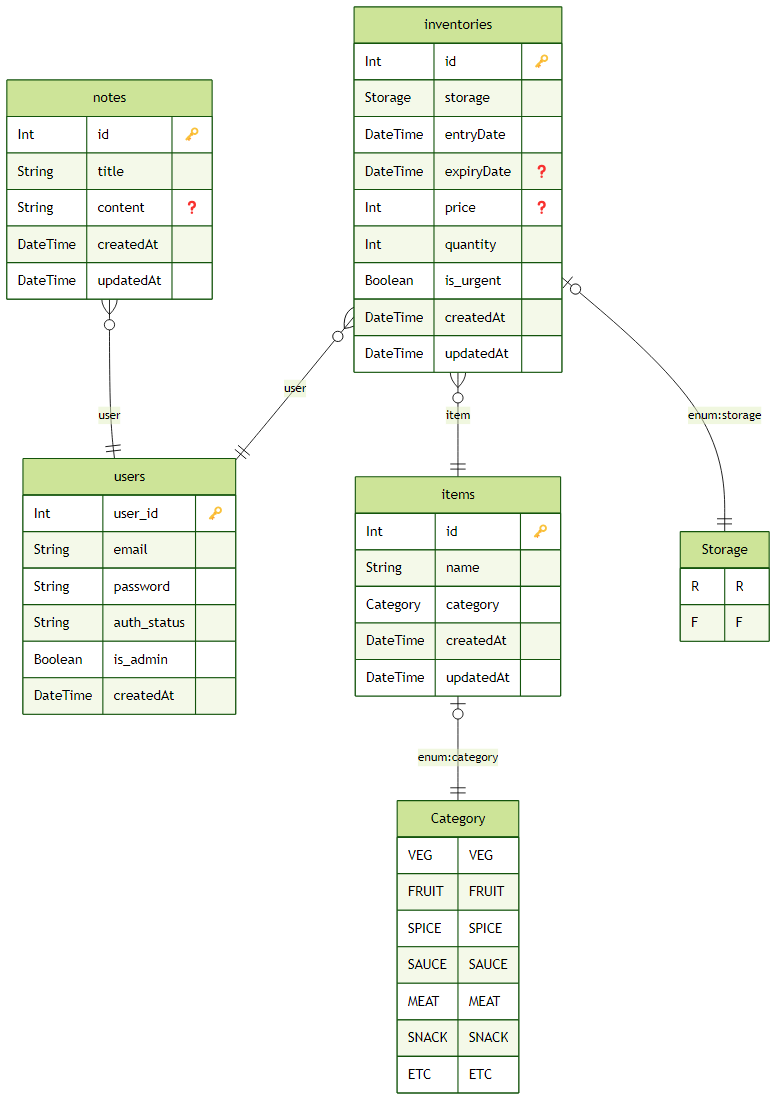
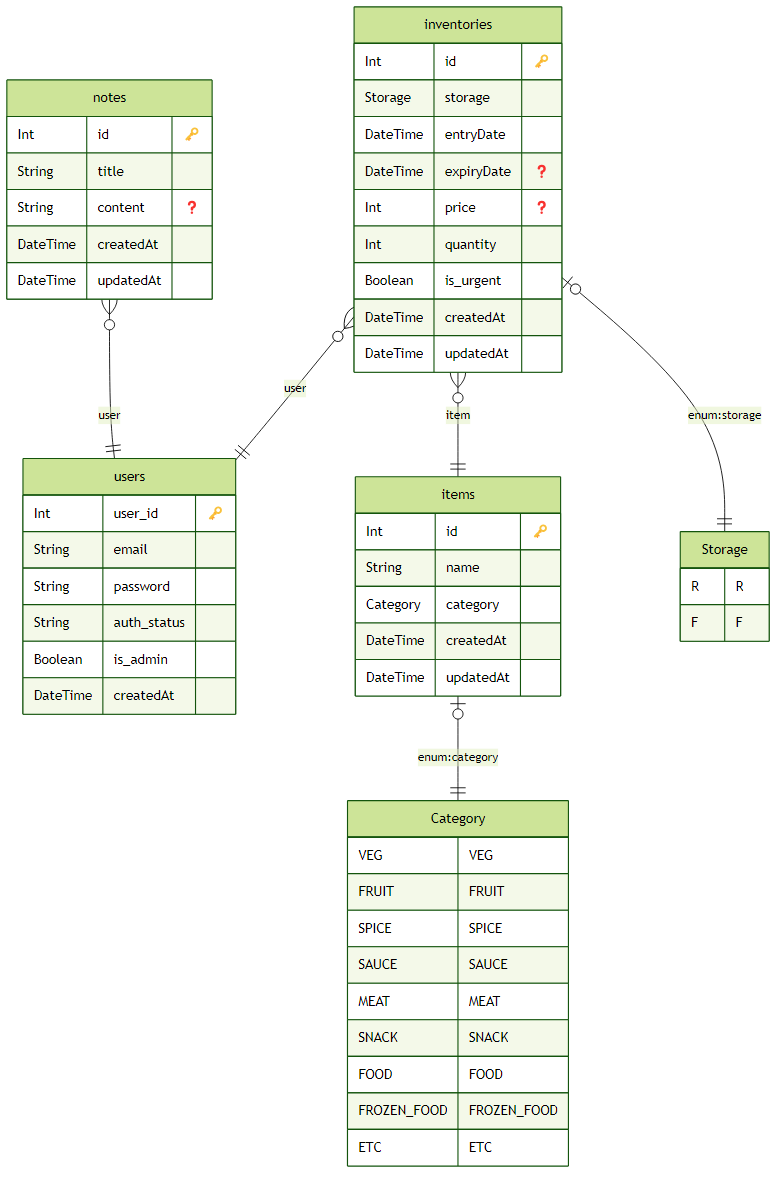
feat(F.E): Add FOOD and FROZEN_FOOD categories to Inventory

diff --git a/frontend/src/components/inventory/InventoryFilters.tsx b/frontend/src/components/inventory/InventoryFilters.tsx
@@ -1,11 +1,13 @@
 export const CATEGORY_INFO: Record<string, { label: string; style: string }> = {
-  VEG:   { label: "🥬 야채",   style: "!bg-green-100 text-green-700" },
-  FRUIT: { label: "🍎 과일",   style: "!bg-pink-100 text-pink-700" },
-  SPICE: { label: "🧂 조미료", style: "!bg-yellow-100 text-yellow-700" },
-  SAUCE: { label: "🥫 양념장", style: "!bg-orange-100 text-orange-700" },
-  MEAT:  { label: "🥩 고기",   style: "!bg-red-100 text-red-700" },
-  SNACK: { label: "🍪 간식",   style: "!bg-purple-100 text-purple-700" },
-  ETC:   { label: "📦 기타",   style: "!bg-gray-100 text-gray-700" },
+  VEG:         { label: "🥬 야채",       style: "!bg-green-100 text-green-700" },
+  FRUIT:       { label: "🍎 과일",       style: "!bg-pink-100 text-pink-700" },
+  SPICE:       { label: "🧂 조미료",     style: "!bg-yellow-100 text-yellow-700" },
+  SAUCE:       { label: "🥫 양념장",     style: "!bg-orange-100 text-orange-700" },
+  MEAT:        { label: "🥩 고기",       style: "!bg-red-100 text-red-700" },
+  SNACK:       { label: "🍪 간식",       style: "!bg-purple-100 text-purple-700" },
+  FOOD:        { label: "🍱 음식",       style: "!bg-amber-100 text-amber-700" },
+  FROZEN_FOOD: { label: "🧊 냉동식품",   style: "!bg-blue-100 text-blue-700" },
+  ETC:         { label: "📦 기타",       style: "!bg-gray-100 text-gray-700" },
 };
 
 export const STORAGE_INFO: Record<string, { label: string; style: string }> = {
@@ -132,6 +134,8 @@ export default function InventoryFilters({
               <option value="SAUCE">양념장</option>
               <option value="MEAT">고기</option>
               <option value="SNACK">간식</option>
+              <option value="FOOD">음식</option>
+              <option value="FROZEN_FOOD">냉동식품</option>
               <option value="ETC">기타</option>
             </select>
             <select className="flex-1 p-2 border rounded" value={storageFilter} onChange={(e) => setStorageFilter(e.target.value)}>

diff --git a/frontend/src/components/inventory/InventoryModal.tsx b/frontend/src/components/inventory/InventoryModal.tsx
@@ -218,6 +218,8 @@ export default function InventoryModal({
                 <option value="SAUCE">🥫 양념장</option>
                 <option value="MEAT">🥩 고기</option>
                 <option value="SNACK">🍪 간식</option>
+                <option value="FOOD">🍱 음식</option>
+                <option value="FROZEN_FOOD">🧊 냉동식품</option>
                 <option value="ETC">📦 기타</option>
               </select>
             </div>

diff --git a/frontend/src/types/item.ts b/frontend/src/types/item.ts
@@ -1,4 +1,4 @@
-export type Category = "VEG" | "FRUIT" | "SPICE" | "SAUCE" | "MEAT" | "SNACK" | "ETC";
+export type Category = "VEG" | "FRUIT" | "SPICE" | "SAUCE" | "MEAT" | "SNACK" | "FOOD" | "FROZEN_FOOD" | "ETC";
 
 export interface Item {
   id: number;
